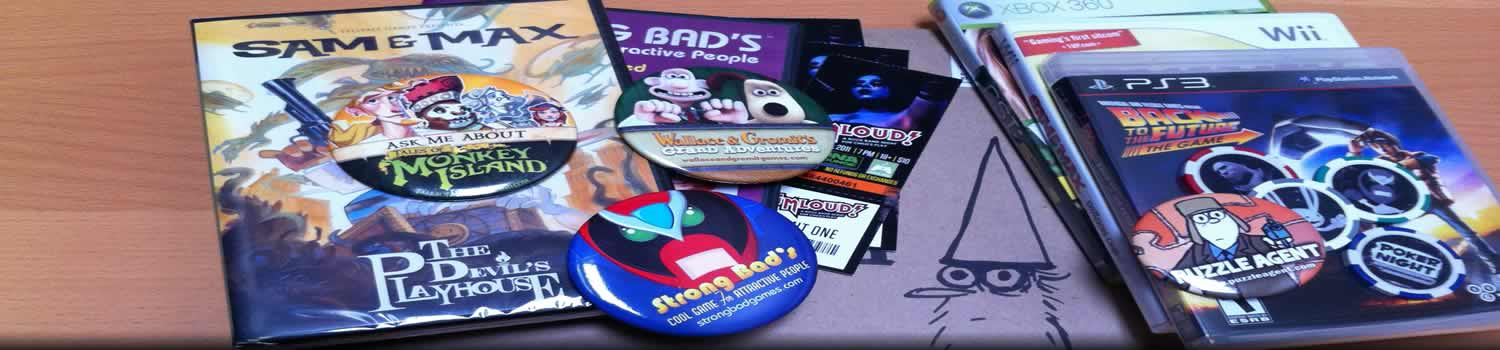
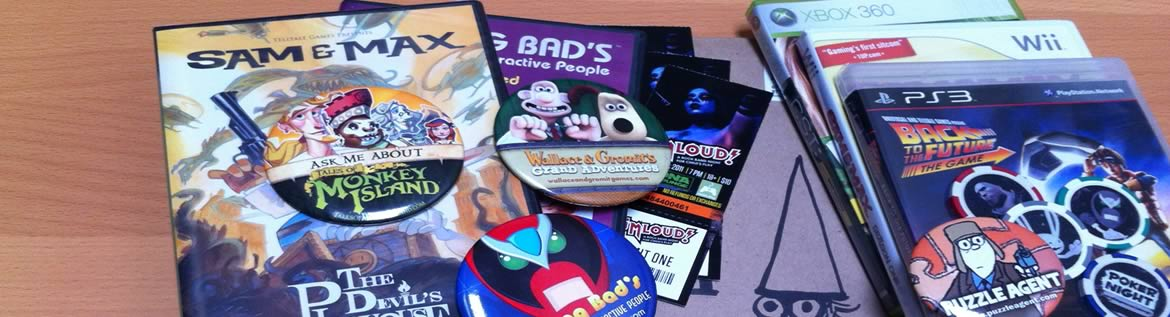
Switching from Jumbotron to Hero-unit

diff --git a/css/seg_resume.css b/css/seg_resume.css
@@ -1,1 +1,1 @@
-[class*=" platform-"]:before{text-decoration:inherit;display:inline-block;speak:none}.platform-win{background:url('../img/platform_icons.png') no-repeat -1px -166px;width:24px;height:25px}.platform-macosx{background:url('../img/platform_icons.png') no-repeat -1px -192px;width:24px;height:29px}.platform-xbox360{background:url('../img/platform_icons.png') no-repeat -1px -1px;width:19px;height:32px}.platform-wii{background:url('../img/platform_icons.png') no-repeat -1px -34px;width:23px;height:32px}.platform-ps3{background:url('../img/platform_icons.png') no-repeat -1px -67px;width:24px;height:32px}.platform-ps3-slim{background:url('../img/platform_icons.png') no-repeat -1px -100px;width:23px;height:32px}.platform-ios{background:url('../img/platform_icons.png') no-repeat -1px -133px;width:20px;height:32px}.carousel{margin-bottom:0}.carousel .item{height:300px}.carousel img{position:absolute;top:0;left:0;min-width:100%;height:300px}.carousel .container{position:relative;z-index:9}.carousel-control{height:80px;margin-top:0;font-size:120px;text-shadow:0 1px 1px rgba(0,0,0,0.4);background-color:transparent;border:0;z-index:10}.carousel-caption{background-color:transparent;position:static;max-width:550px;padding:0 20px;margin-top:171px}.carousel-caption .btn{margin-top:10px}.carousel-caption h1,.carousel-caption .lead{margin:0;line-height:1.25;color:#fff;text-shadow:0 2px 10px #000}#introduction{text-align:center}#introduction blockquote{text-align:left}#introduction .featured-icon{font-size:60pt}#introduction .featured-icon-small{font-size:40pt}
+[class*=" platform-"]:before{text-decoration:inherit;display:inline-block;speak:none}.platform-win{background:url('../img/platform_icons.png') no-repeat -1px -166px;width:24px;height:25px}.platform-macosx{background:url('../img/platform_icons.png') no-repeat -1px -192px;width:24px;height:29px}.platform-xbox360{background:url('../img/platform_icons.png') no-repeat -1px -1px;width:19px;height:32px}.platform-wii{background:url('../img/platform_icons.png') no-repeat -1px -34px;width:23px;height:32px}.platform-ps3{background:url('../img/platform_icons.png') no-repeat -1px -67px;width:24px;height:32px}.platform-ps3-slim{background:url('../img/platform_icons.png') no-repeat -1px -100px;width:23px;height:32px}.platform-ios{background:url('../img/platform_icons.png') no-repeat -1px -133px;width:20px;height:32px}.carousel{margin-bottom:0}.carousel .item{height:300px}.carousel img{position:absolute;top:0;left:0;min-width:100%;height:300px}.carousel .container{position:relative;z-index:9}.carousel-control{height:80px;margin-top:0;font-size:120px;text-shadow:0 1px 1px rgba(0,0,0,0.4);background-color:transparent;border:0;z-index:10}.carousel-caption{background-color:transparent;position:static;max-width:550px;padding:0 20px;margin-top:171px}.carousel-caption .btn{margin-top:10px}.carousel-caption h1,.carousel-caption .lead{margin:0;line-height:1.25;color:#fff;text-shadow:0 2px 10px #000}.hero-unit{background-image:url('../img/main_banner.jpg');color:#fff;text-align:left;height:250px}.hero-unit h1,.hero-unit .lead{text-shadow:0 2px 10px #000}#introduction{text-align:center}#introduction blockquote{text-align:left}#introduction .featured-icon{font-size:60pt}#introduction .featured-icon-small{font-size:40pt}

diff --git a/index.html b/index.html
@@ -38,10 +38,8 @@
     </div>
   </div>
 </div>
-
+<!--
 <header>
-    <!-- Carousel
-    ================================================== -->
     <div id="myCarousel" class="carousel slide">
       <div class="carousel-inner">
         <div class="item active">
@@ -54,10 +52,14 @@
           </div>
         </div>
       </div>
-    </div><!-- /.carousel -->
+    </div>
 </header>
-
+-->
 <div class="container">
+  <div class="hero-unit">
+    <h1>-</h1>
+    <p class="lead">-</p>
+  </div>
 
   <section id="navigation">
   <div class="subnav">

diff --git a/less/seg_resume.less b/less/seg_resume.less
@@ -53,6 +53,18 @@ body {}
   }
 }
 
+/* hero-unit */
+
+.hero-unit {
+  background-image:url('../img/main_banner.jpg');
+  color:#fff;
+  text-align:left;
+  height:250px;
+  h1, .lead {
+    text-shadow: 0 2px 10px rgba(0,0,0,1);
+  }
+}
+
 /* introduction */
 
 #introduction {
